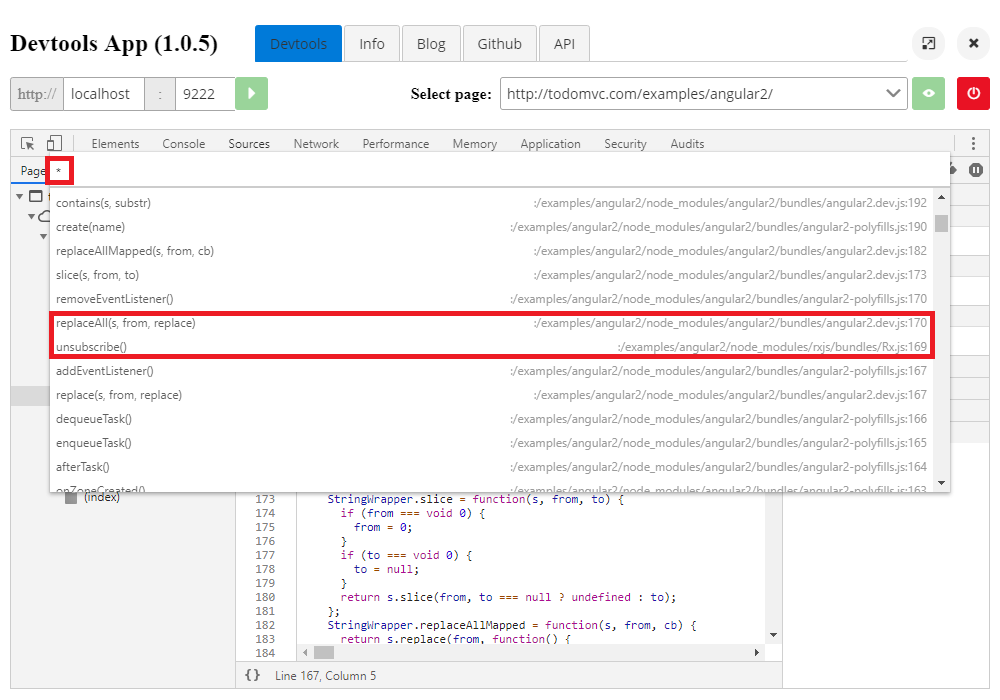
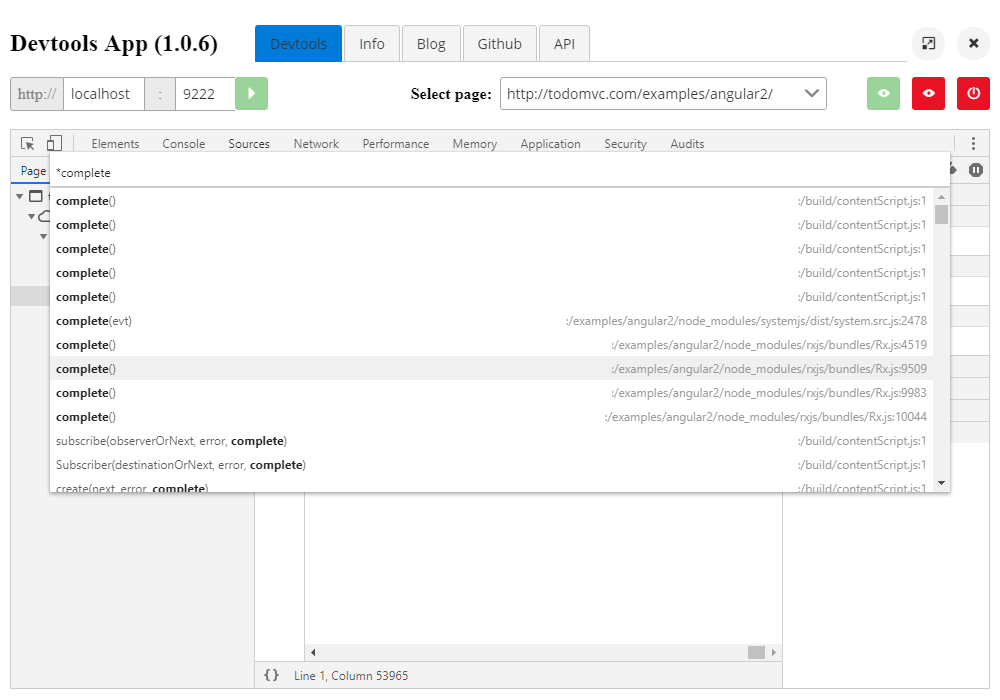
Support launching devtools on devtools

diff --git a/src/app/components/devtoolsappng/devtools-app-ng.component.html b/src/app/components/devtoolsappng/devtools-app-ng.component.html
@@ -42,10 +42,10 @@
             <div class="p-col-2 p-col-align-center" style="text-align: end;">
               <b>Select page:&nbsp;&nbsp;</b>
             </div>
-            <div class="p-col-5 p-col-align-center">
+            <div class="p-col-4 p-col-align-center">
               <p-dropdown [readonly]="devtoolsConnected" [options]="inpsectablePages" [(ngModel)]="inpsectablePage" optionLabel="url" [style]="{'width': '100%'}"></p-dropdown>
             </div>
-            <div class="p-col-1 p-col-align-center" style="text-align: end;">
+            <div class="p-col-2 p-col-align-center" style="text-align: end;">
               <p-button
               type="button"
               icon="pi pi-eye"
@@ -53,6 +53,14 @@
               [disabled]="inpsectablePages.length === 0 || devtoolsConnected"
               title="Launch devtools"
               (click)="launchDevtools($event)"></p-button>
+              &nbsp;
+              <p-button
+              type="button"
+              icon="pi pi-eye"
+              styleClass="ui-button-danger"
+              [disabled]="!devtoolsConnected"
+              title="Launch devtools on devtools"
+              (click)="launchDevtoolsOnDevtools($event)"></p-button>
               &nbsp;
               <p-button type="button"
                 [icon]="devtoolsConnected ? 'pi pi-power-off' : 'pi pi-trash'"
@@ -80,7 +88,8 @@
               <webview id="devtools-view"
                 [ngStyle]="{'height' : (devtoolsConnected ? 'calc(100vh - 140px)' : 'calc(100vh - 190px)')}"
                 style="border: 1px solid #CCC;width: 100%;"
-                src="about:blank"></webview>
+                src="about:blank"
+                disablewebsecurity></webview>
             </div>
           </div>
         </ng-container>

diff --git a/src/app/components/devtoolsappng/devtools-app-ng.component.ts b/src/app/components/devtoolsappng/devtools-app-ng.component.ts
@@ -3,7 +3,7 @@ import { Component, OnInit, OnDestroy, Inject, ViewChild } from '@angular/core';
 import { DOCUMENT } from '@angular/common';
 import { HttpClient } from '@angular/common/http';
 
-import { clipboard } from 'electron';
+import { clipboard, WebviewTag } from 'electron';
 import { remote } from 'electron';
 import { MenuItem } from 'primeng/api';
 
@@ -102,6 +102,11 @@ export class DevtoolsAppNGComponent implements OnInit, OnDestroy {
     .setAttribute('src',
     // tslint:disable-next-line:max-line-length
     this.devtoolsURL + DEVTOOLS_URL_SUFFIX + this.inpsectablePage.webSocketDebuggerUrl.substring(4));
+  }
+
+  launchDevtoolsOnDevtools(event) {
+    const webview: WebviewTag = document.querySelector('#devtools-view');
+    webview.openDevTools();
   }
 
   copyDevtoolsURL() {
